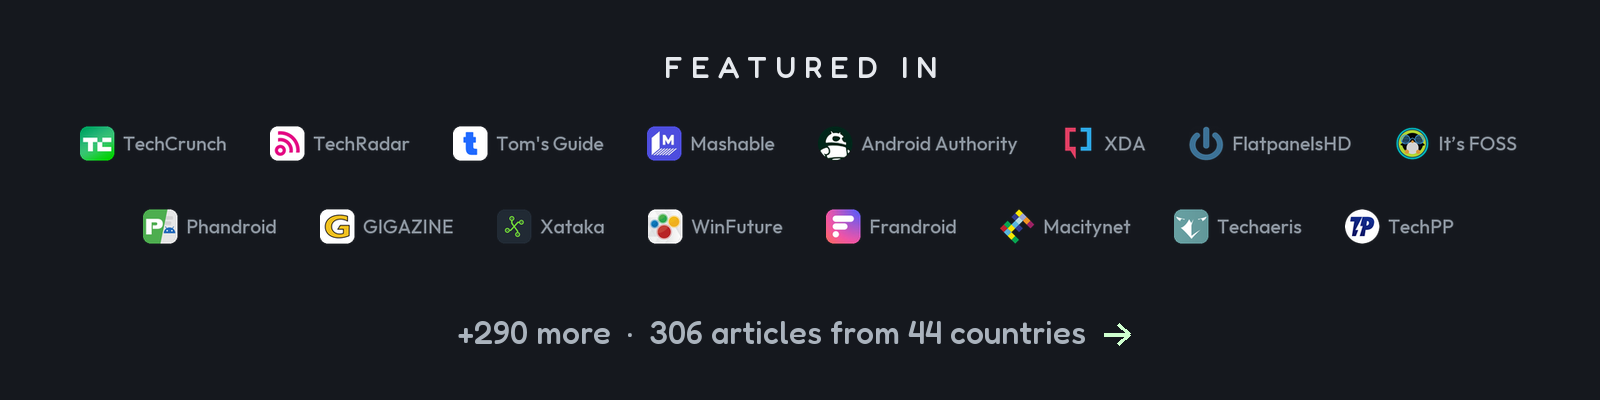
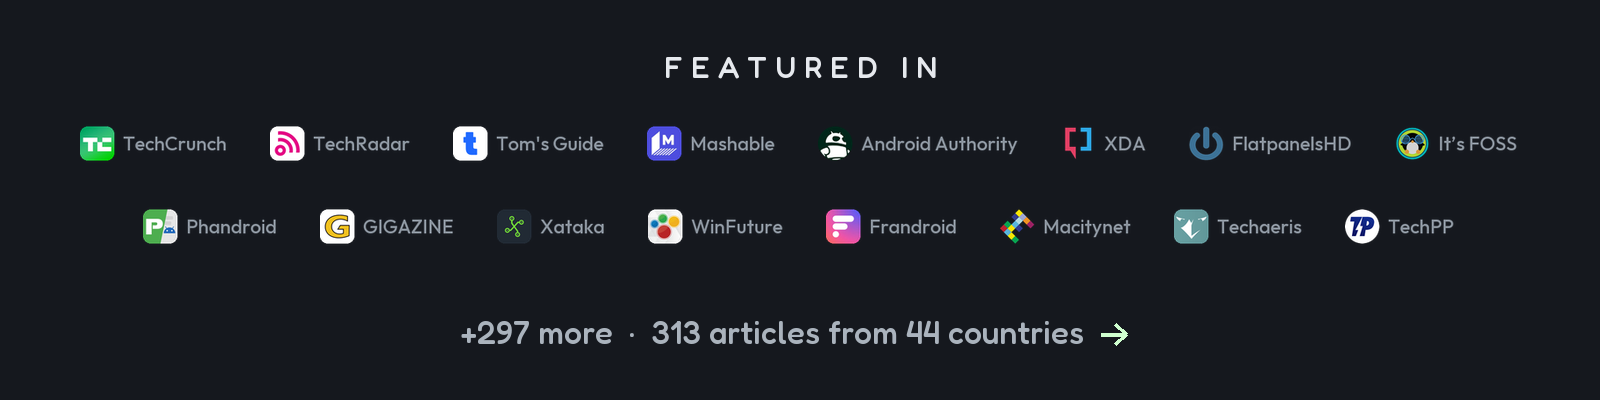
Press: 313 articles from 44 countries, the list in step with cleanyour.tv/press
Seven articles Gathin opened by hand: Tweakers (Netherlands), Playtech.ro (Romania), Archyde, Peradaban.id x2 and ChatNews (Indonesia), Audiostereo.pl (Poland). README alt text (English and Dutch), tools/readme_featured.py and the card say 297 more, 313 articles from 44 countries.

Changed region(s): [[0.4062, 0.78, 0.7188, 0.87], [0.2812, 0.81, 0.375, 0.87]]

diff --git a/tools/readme_featured.py b/tools/readme_featured.py
@@ -68,7 +68,7 @@ except ImportError:
 
 LOGOS = ["techcrunch", "techradar", "tomsguide", "mashable", "androidauthority", "xda", "flatpanelshd", "itsfoss",
          "phandroid", "gigazine", "xataka", "winfuture", "frandroid", "macitynet", "techaeris", "techpp"]
-MORE = "+290 more  ·  306 articles from 44 countries"
+MORE = "+297 more  ·  313 articles from 44 countries"
 W, LH, GAP, ROWGAP, PAD = 1600, 54, 40, 36, 80
 def f(size, wt):
     # A path that exists is not yet a font: Google Fonts serves Fredoka as a zip holding the variable

diff --git a/docs/PRESS.md b/docs/PRESS.md
@@ -1,10 +1,10 @@
 # CleanYourTV in the press
 
-Every article about CleanYourTV (called tv-vibehack until 19 October 2026) that we could open and check: **306 articles**, 259 of them from outlets in 44 countries, 10 from Spanish-language sites in Latin America and 37 from newsletters, blogs and AI news sites. Headlines are in the language they were published in. Syndicated copies and auto-generated listings are left out. [147 videos](#videos) follow the articles.
+Every article about CleanYourTV (called tv-vibehack until 19 October 2026) that we could open and check: **313 articles**, 265 of them from outlets in 44 countries, 10 from Spanish-language sites in Latin America and 38 from newsletters, blogs and AI news sites. Headlines are in the language they were published in. Syndicated copies and auto-generated listings are left out. [147 videos](#videos) follow the articles.
 
 Wrote about it and not here? Open an issue or a pull request with the link.
 
-[United States](#united-states)&nbsp;24 · [United Kingdom](#united-kingdom)&nbsp;5 · [India](#india)&nbsp;5 · [Denmark](#denmark)&nbsp;1 · [Japan](#japan)&nbsp;4 · [Bangladesh](#bangladesh)&nbsp;2 · [United Arab Emirates](#united-arab-emirates)&nbsp;1 · [France](#france)&nbsp;20 · [Germany](#germany)&nbsp;8 · [Spain](#spain)&nbsp;9 · [Italy](#italy)&nbsp;17 · [Norway](#norway)&nbsp;1 · [Portugal](#portugal)&nbsp;5 · [Czechia](#czechia)&nbsp;4 · [Ukraine](#ukraine)&nbsp;4 · [Greece](#greece)&nbsp;6 · [Egypt](#egypt)&nbsp;5 · [Brazil](#brazil)&nbsp;17 · [Latin America (Spanish-language)](#latin-america-spanish-language)&nbsp;10 · [China](#china)&nbsp;31 · [Taiwan](#taiwan)&nbsp;8 · [Indonesia](#indonesia)&nbsp;15 · [Thailand](#thailand)&nbsp;3 · [Vietnam](#vietnam)&nbsp;9 · [Netherlands](#netherlands)&nbsp;3 · [Poland](#poland)&nbsp;7 · [Russia](#russia)&nbsp;13 · [Belarus](#belarus)&nbsp;2 · [Turkey](#turkey)&nbsp;4 · [Jordan](#jordan)&nbsp;1 · [South Korea](#south-korea)&nbsp;4 · [Australia](#australia)&nbsp;2 · [Pakistan](#pakistan)&nbsp;1 · [Hungary](#hungary)&nbsp;2 · [Saudi Arabia](#saudi-arabia)&nbsp;1 · [Romania](#romania)&nbsp;2 · [Sweden](#sweden)&nbsp;2 · [Hong Kong](#hong-kong)&nbsp;2 · [Bulgaria](#bulgaria)&nbsp;2 · [Slovakia](#slovakia)&nbsp;1 · [Belgium](#belgium)&nbsp;1 · [Kenya](#kenya)&nbsp;1 · [Israel](#israel)&nbsp;2 · [Finland](#finland)&nbsp;1 · [Serbia](#serbia)&nbsp;1 · [Online (newsletters, blogs, AI news)](#online-newsletters-blogs-ai-news)&nbsp;37
+[United States](#united-states)&nbsp;24 · [United Kingdom](#united-kingdom)&nbsp;5 · [India](#india)&nbsp;5 · [Denmark](#denmark)&nbsp;1 · [Japan](#japan)&nbsp;4 · [Bangladesh](#bangladesh)&nbsp;2 · [United Arab Emirates](#united-arab-emirates)&nbsp;1 · [France](#france)&nbsp;20 · [Germany](#germany)&nbsp;8 · [Spain](#spain)&nbsp;9 · [Italy](#italy)&nbsp;17 · [Norway](#norway)&nbsp;1 · [Portugal](#portugal)&nbsp;5 · [Czechia](#czechia)&nbsp;4 · [Ukraine](#ukraine)&nbsp;4 · [Greece](#greece)&nbsp;6 · [Egypt](#egypt)&nbsp;5 · [Brazil](#brazil)&nbsp;17 · [Latin America (Spanish-language)](#latin-america-spanish-language)&nbsp;10 · [China](#china)&nbsp;31 · [Taiwan](#taiwan)&nbsp;8 · [Indonesia](#indonesia)&nbsp;18 · [Thailand](#thailand)&nbsp;3 · [Vietnam](#vietnam)&nbsp;9 · [Netherlands](#netherlands)&nbsp;4 · [Poland](#poland)&nbsp;8 · [Russia](#russia)&nbsp;13 · [Belarus](#belarus)&nbsp;2 · [Turkey](#turkey)&nbsp;4 · [Jordan](#jordan)&nbsp;1 · [South Korea](#south-korea)&nbsp;4 · [Australia](#australia)&nbsp;2 · [Pakistan](#pakistan)&nbsp;1 · [Hungary](#hungary)&nbsp;2 · [Saudi Arabia](#saudi-arabia)&nbsp;1 · [Romania](#romania)&nbsp;3 · [Sweden](#sweden)&nbsp;2 · [Hong Kong](#hong-kong)&nbsp;2 · [Bulgaria](#bulgaria)&nbsp;2 · [Slovakia](#slovakia)&nbsp;1 · [Belgium](#belgium)&nbsp;1 · [Kenya](#kenya)&nbsp;1 · [Israel](#israel)&nbsp;2 · [Finland](#finland)&nbsp;1 · [Serbia](#serbia)&nbsp;1 · [Online (newsletters, blogs, AI news)](#online-newsletters-blogs-ai-news)&nbsp;38
 
 ## United States
 
@@ -317,6 +317,9 @@ Wrote about it and not here? Open an issue or a pull request with the link.
 | Demokratis.co.id (English edition) | [AI Tools Help TV Owners Remove Ads and Tracking](https://demokratis.co.id/en/ai-tools-remove-tv-ads-tracking) | 24&nbsp;Oct |
 | Telset.id | [Vibe Coding di Smart TV: Pengguna Ramai-ramai Bobol Iklan dan Pelacakan](https://telset.id/news/ai/vibe-coding-di-smart-tv-pengguna-ramai-ramai-bobol-iklan-dan-pelacakan) | 24&nbsp;Oct |
 | Jagat Review | [Ramai Debloat Smart TV Biar Ringan Pakai AI, Apakah Aman?](https://www.jagatreview.com/2026/10/smart-tv-debloat-cleanyourtv/) | 25&nbsp;Oct |
+| Peradaban.id | [Developer Ubah Smart TV Xiaomi Jadi Mirip Apple TV dengan AI](https://peradaban.id/developer-modifikasi-tv-xiaomi-ai) | 19&nbsp;Oct |
+| Peradaban.id | [Developer Ubah Smart TV Xiaomi Bebas Iklan dengan Bantuan AI](https://peradaban.id/developer-modifikasi-smart-tv-xiaomi) | 19&nbsp;Oct |
+| ChatNews | [Pengguna Manfaatkan AI untuk Bersihkan Iklan di Smart TV](https://chatnews.id/ai-bersihkan-iklan-smart-tv) | 21&nbsp;Oct |
 
 ## Thailand
 
@@ -347,6 +350,7 @@ Wrote about it and not here? Open an issue or a pull request with the link.
 | AI Wereld | [AI maakt je TV schoon met CleanYourTV](https://aiwereld.nl/nieuws/ai-maakt-je-tv-schoon-met-cleanyourtv) | 21&nbsp;Oct |
 | AI Wereld | [Goedemorgen AI: een game in drie uur en ChatGPT in het restaurant](https://aiwereld.nl/nieuws/goedemorgen-ai-een-game-in-drie-uur-en-chatgpt-in-het-restaurant) | 21&nbsp;Oct |
 | Bright | [Slimmeriken gebruiken AI om hun smart-tv juist dom te maken](https://www.bright.nl/nieuws/2148884/slimmeriken-gebruiken-ai-om-hun-smart-tv-juist-dom-te-maken.html) | 20&nbsp;Oct |
+| Tweakers | [Vibecoders schrijven zelf firmware die ads en bloatware uit tv's verwijdert](https://tweakers.net/geek/253576/vibecoders-schrijven-zelf-firmware-die-ads-en-bloatware-uit-tvs-verwijdert.html) | – |
 
 ## Poland
 
@@ -359,6 +363,7 @@ Wrote about it and not here? Open an issue or a pull request with the link.
 | Bezprawnik | [Hakowanie telewizorów przez AI. Apple TV za 1499 zł traci sens?](https://bezprawnik.pl/hakowanie-telewizorow-ai/) | 19&nbsp;Oct |
 | Instalki | [Magia ery kodowania z AI. Użytkownicy sami ulepszają swoje telewizory](https://www.instalki.pl/news/tv-audio/magia-ery-kodowania-z-ai-uzytkownicy-sami-ulepszaja-swoje-telewizory/) | 23&nbsp;Oct |
 | Elektroda.pl | [AI w walce z nachalnymi reklamami - agenci AI czyszczą smart TV z reklam i śledzenia](https://www.elektroda.pl/rtvforum/topic4185760.html) | – |
+| Audiostereo.pl | [Koniec z reklamami w Smart TV. Użytkownicy używają AI, by odzyskać własne telewizory](https://www.audiostereo.pl/magazyn/magazyn-kulturalny/newsy/koniec-z-reklamami-w-smart-tv-u%C5%BCytkownicy-u%C5%BCywaj%C4%85-ai-by-odzyska%C4%87-w%C5%82asne-telewizory-r2002) | – |
 
 ## Russia
 
@@ -441,6 +446,7 @@ Wrote about it and not here? Open an issue or a pull request with the link.
 | --- | --- | --- |
 | connect.ro | [Utilizatorii folosesc AI-ul pentru programarea unor aplicații fără reclame sau funcții inutile](https://www.connect.ro/2026/10/20/utilizatorii-folosesc-ai-ul-pentru-programarea-unor-aplicatii-fara-reclame-sau-functii-inutile/) | 20&nbsp;Oct |
 | Mobilissimo.ro | [Oamenii folosesc AI ca să-și facă televizoarele smart mai simple, fără reclame în meniu](https://www.mobilissimo.ro/stiri-diverse/oamenii-folosesc-ai-ca-sa-si-faca-televizoarele-smart-mai-simple-fara-reclame-in-meniu) | 23&nbsp;Oct |
+| Playtech.ro | [Oamenii folosesc inteligența artificială ca să scape de reclamele de pe Smart TV. Claude Code poate transforma un televizor lent într-unul mult mai rapid](https://playtech.ro/2026/oamenii-folosesc-inteligenta-artificiala-ca-sa-scape-de-reclamele-de-pe-smart-tv-claude-code-poate-transforma-un-televizor-lent-intr-unul-mult-mai-rapid/) | 20&nbsp;Oct |
 
 ## Sweden
 
@@ -541,6 +547,7 @@ Wrote about it and not here? Open an issue or a pull request with the link.
 | PPC Land | [CleanYourTV gains 30,900 GitHub stars by removing Google TV home screen ads](https://ppc.land/cleanyourtv-gains-30-900-github-stars-by-removing-google-tv-home-screen-ads/) | 24&nbsp;Oct |
 | PaidFreeDroid | [CleanYourTV Guide: Remove Ads From Android TV in 5 Minutes](https://paidfreedroid.com/2026/10/cleanyourtv-guide-remove-android-tv-ads-bloatware.html) | 24&nbsp;Oct |
 | daily.dev | [People are using AI to make their smart TVs dumb again](https://daily.dev/posts/people-are-using-ai-to-make-their-smart-tvs-dumb-again-w4vznkz9w) | 19&nbsp;Oct |
+| Archyde | [Smart TV Owners Use AI Coding Assistants to Remove Bloatware](https://www.archyde.com/smart-tv-owners-use-ai-coding-assistants-to-remove-bloatware/) | 20&nbsp;Oct |
 
 ## Videos
 

diff --git a/README.nl.md b/README.nl.md
@@ -25,7 +25,7 @@
 </p>
 
 <p align="center">
-  <a href="docs/PRESS.md"><img src="docs/card.jpg" alt="316 tv-modellen · 89 merken · 28 talen · launcher van 523 KB. Genoemd in TechCrunch, TechRadar, Tom's Guide, Mashable, Android Authority, XDA, FlatpanelsHD, It's FOSS, Phandroid, GIGAZINE, Xataka, WinFuture, Frandroid, Macitynet, Techaeris, TechPP en nog 290 media: 306 artikelen uit 44 landen. Voorheen: het standaard Google TV-startscherm met een gesponsorde advertentie. Daarna: de Clean Your TV-launcher." width="800"></a>
+  <a href="docs/PRESS.md"><img src="docs/card.jpg" alt="316 tv-modellen · 89 merken · 28 talen · launcher van 523 KB. Genoemd in TechCrunch, TechRadar, Tom's Guide, Mashable, Android Authority, XDA, FlatpanelsHD, It's FOSS, Phandroid, GIGAZINE, Xataka, WinFuture, Frandroid, Macitynet, Techaeris, TechPP en nog 297 media: 313 artikelen uit 44 landen. Voorheen: het standaard Google TV-startscherm met een gesponsorde advertentie. Daarna: de Clean Your TV-launcher." width="800"></a>
 </p>
 
 **De virale tweet:** [x.com/gathint/status/2111379569030939102](https://x.com/gathint/status/2111379569030939102)

diff --git a/README.md b/README.md
@@ -25,7 +25,7 @@
 </p>
 
 <p align="center">
-  <a href="docs/PRESS.md"><img src="docs/card.jpg" alt="335 TV models · 92 brands · 29 languages · 532 KB launcher. Featured in TechCrunch, TechRadar, Tom's Guide, Mashable, Android Authority, XDA, FlatpanelsHD, It's FOSS, Phandroid, GIGAZINE, Xataka, WinFuture, Frandroid, Macitynet, Techaeris, TechPP and 290 more: 306 articles from 44 countries. Before: stock Google TV home with a sponsored ad. After: the Clean Your TV launcher." width="800"></a>
+  <a href="docs/PRESS.md"><img src="docs/card.jpg" alt="335 TV models · 92 brands · 29 languages · 532 KB launcher. Featured in TechCrunch, TechRadar, Tom's Guide, Mashable, Android Authority, XDA, FlatpanelsHD, It's FOSS, Phandroid, GIGAZINE, Xataka, WinFuture, Frandroid, Macitynet, Techaeris, TechPP and 297 more: 313 articles from 44 countries. Before: stock Google TV home with a sponsored ad. After: the Clean Your TV launcher." width="800"></a>
 </p>
 
 **Samsung, LG, Roku or another non-Android TV?** CleanYourTV can't run there, but you can still turn off
